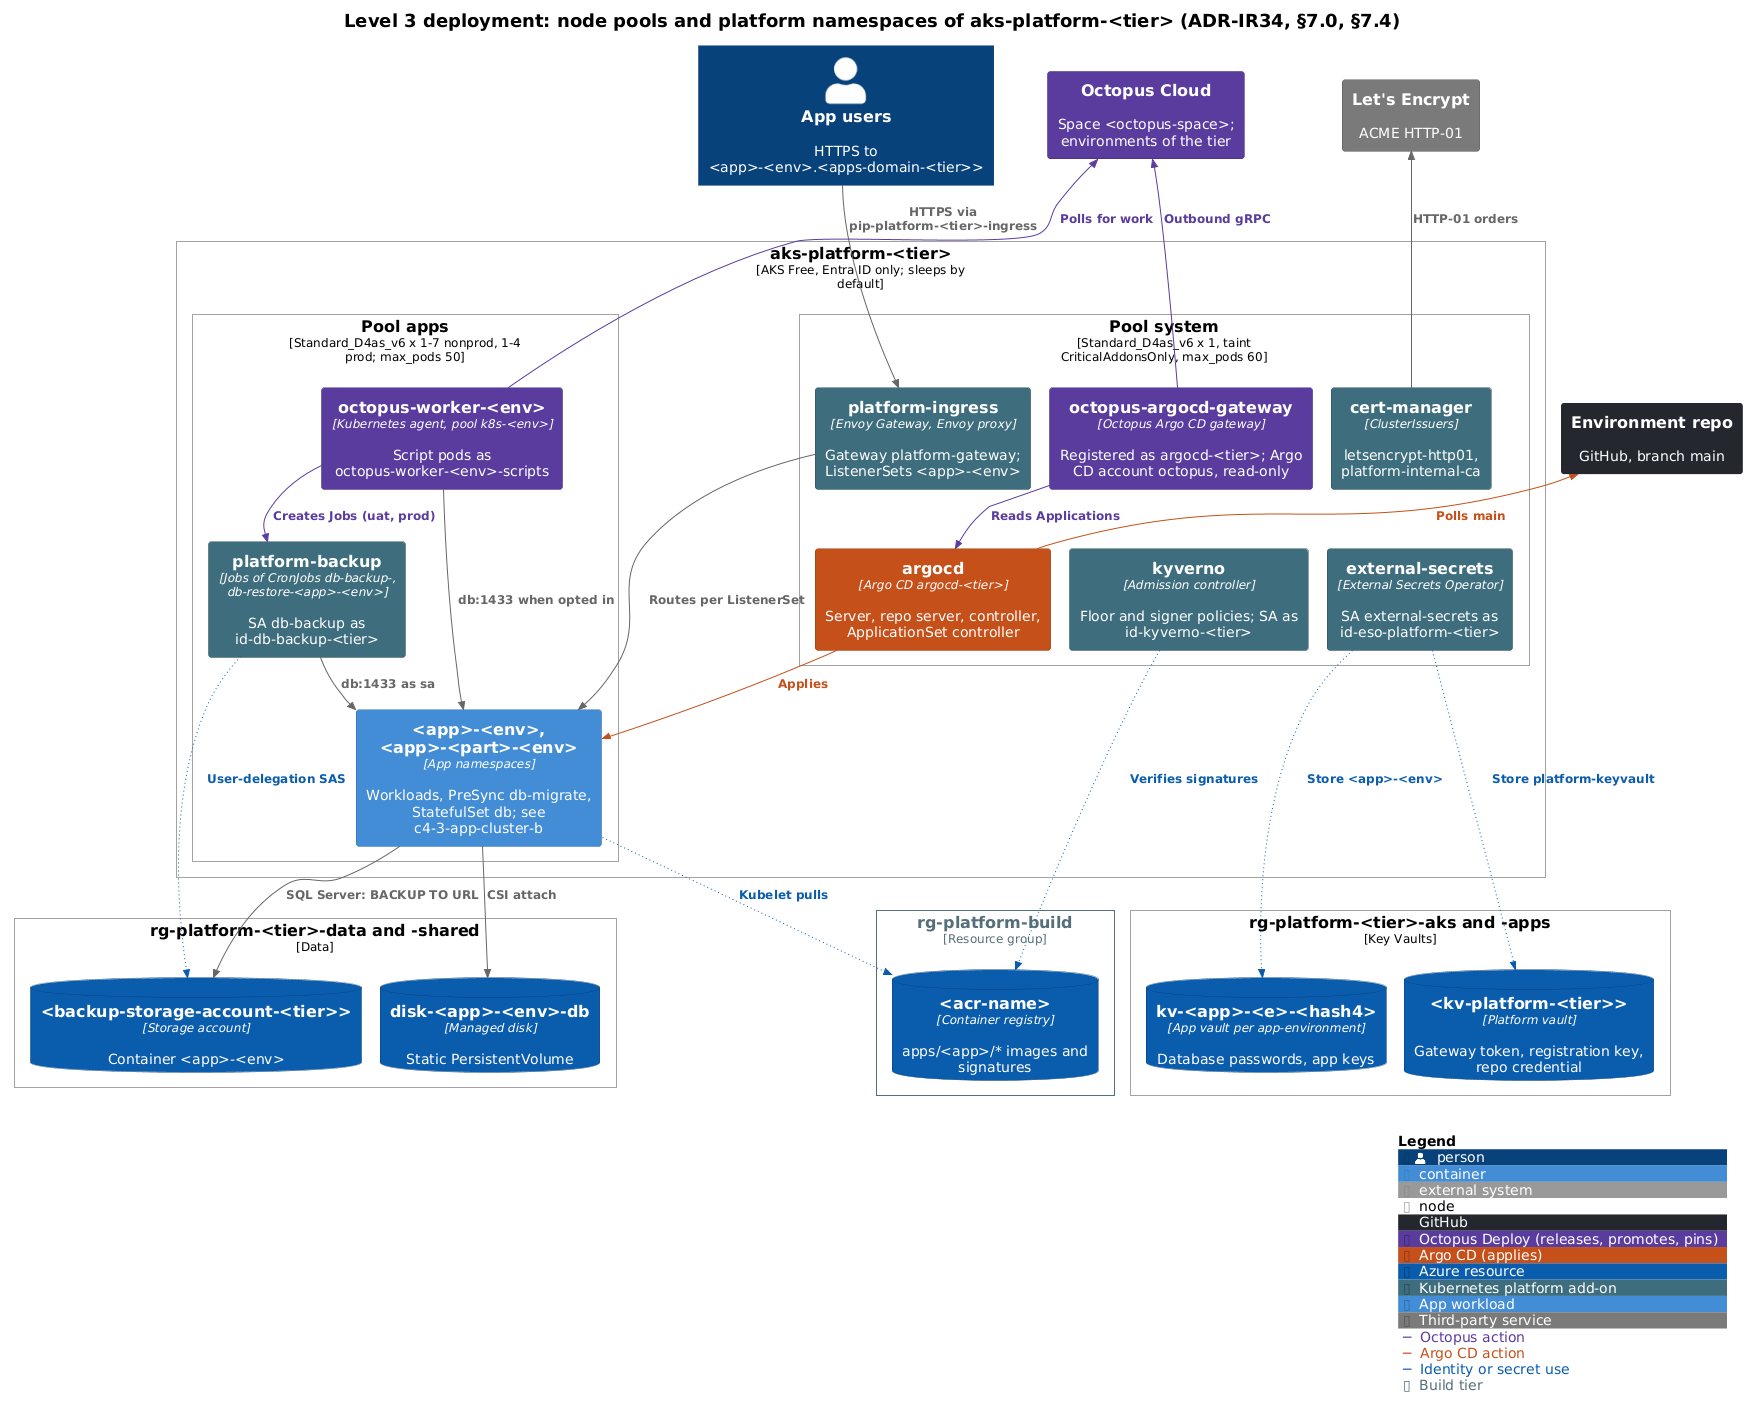
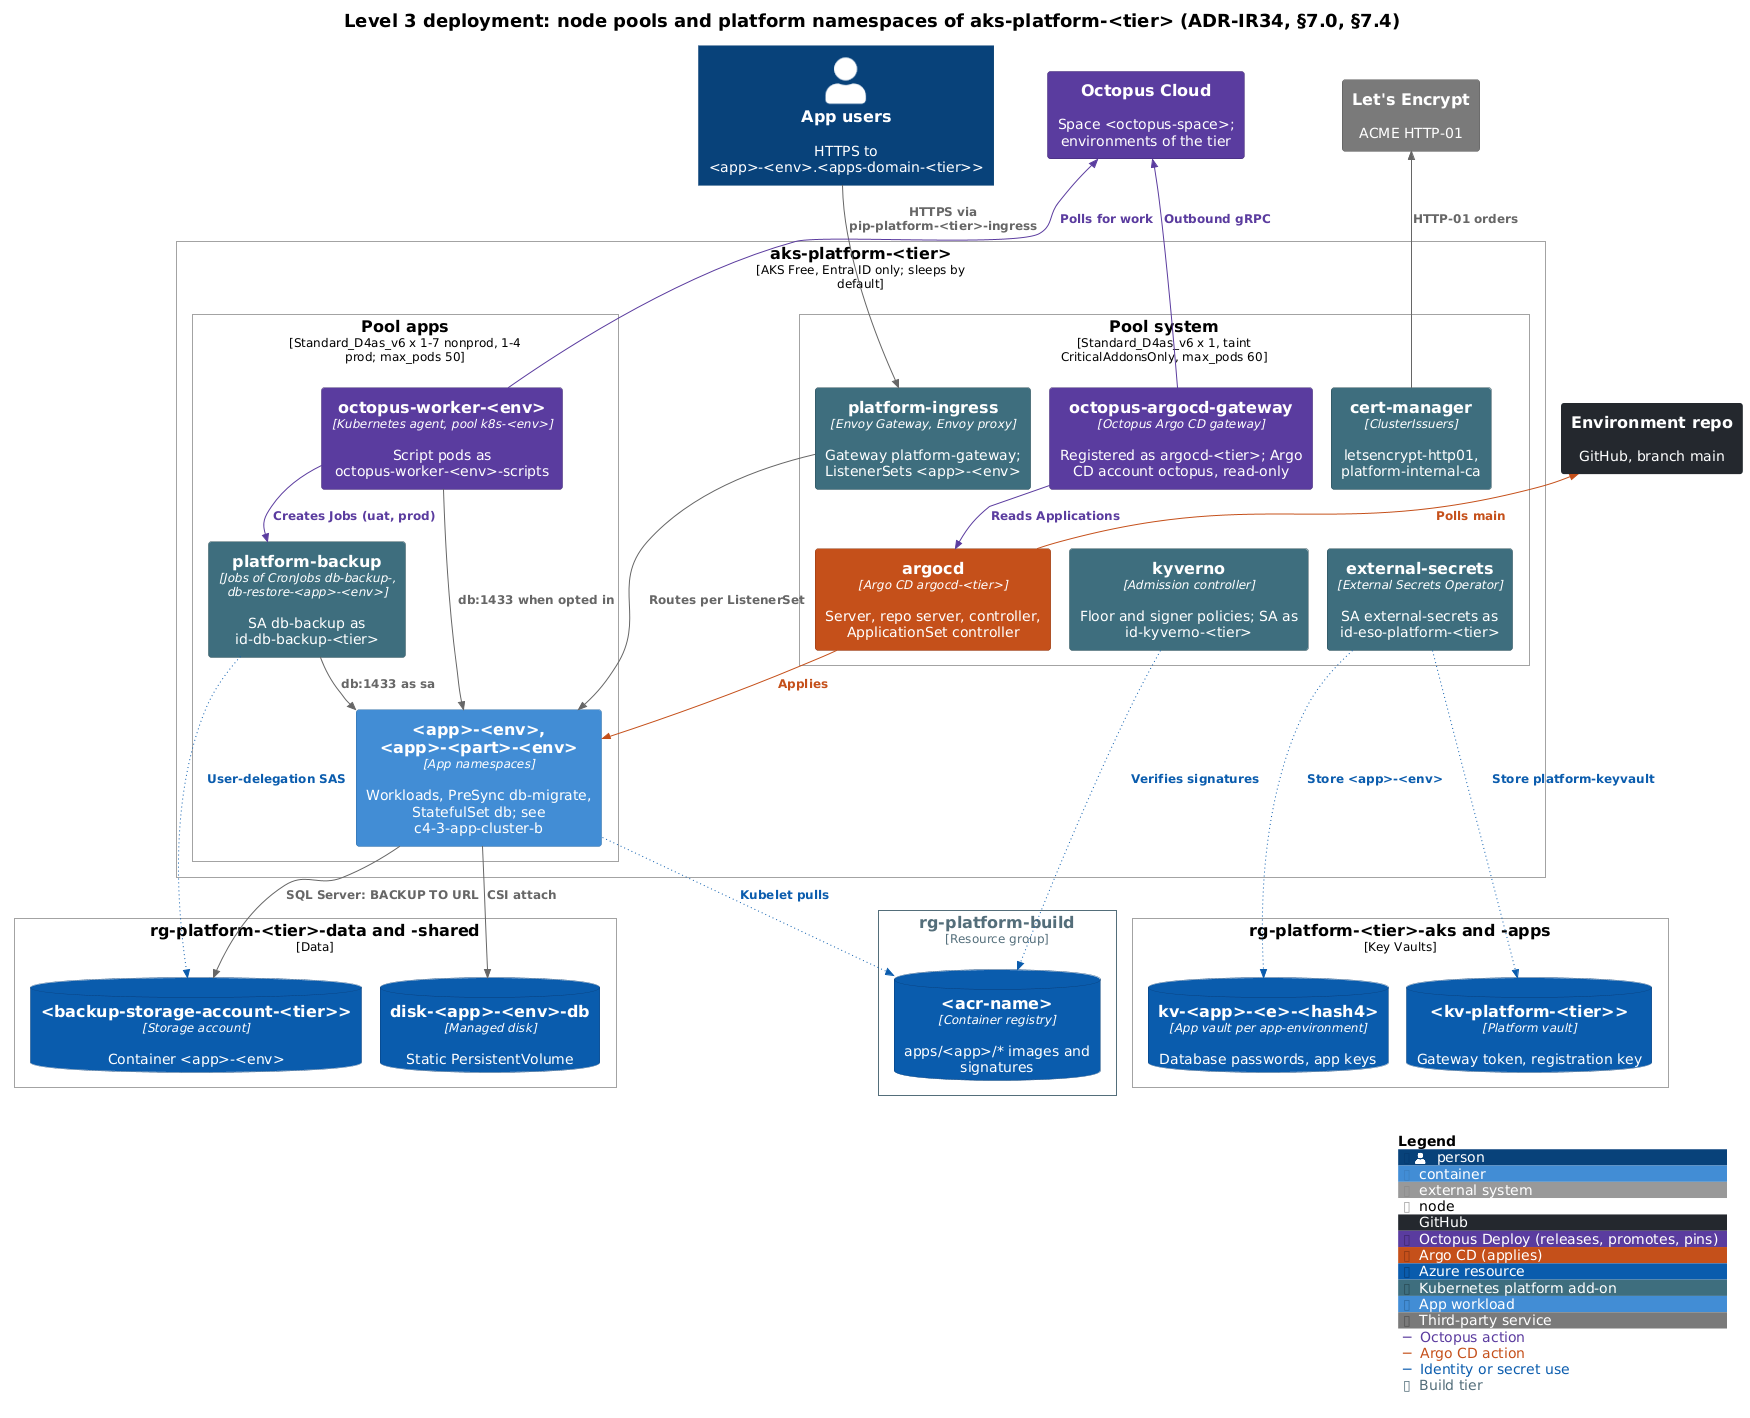
Retire R11: port vault-content wording of five C4 diagrams and the secrets row
Refs #41

Changed region(s): [[0.4937, 0.6206, 0.9566, 0.7757], [0.648, 0.5275, 0.7097, 0.5585], [0.432, 0.6206, 0.4629, 0.6516]]

diff --git a/design/platform-design.md b/design/platform-design.md
@@ -3105,7 +3105,7 @@ Status on 2026-09-24. **Done by the user**: applied by the user. **Done by Claud
 | 3–4 | `argocd/bootstrap/root-app-{nonprod,prod}.yaml` | `argocd-apps` chart values defining `platform-root` (§7.3) |
 | 5, 13 | `argocd/clusters/{nonprod,prod}/namespaces.yaml` | Namespaces from §7.4 with labels (not the worker namespaces) |
 | 6, 14 | `argocd/clusters/{nonprod,prod}/projects.yaml` | AppProjects from §7.3, including the locked `default` |
-| 7, 15 | `argocd/clusters/{nonprod,prod}/platform-secrets.yaml` | `ClusterSecretStore platform-keyvault` and ExternalSecrets for the repo credential, the gateway token and the registration token (§7.8), with `SkipDryRunOnMissingResource=true` |
+| 7, 15 | `argocd/clusters/{nonprod,prod}/platform-secrets.yaml` | `ClusterSecretStore platform-keyvault` and ExternalSecrets for the gateway token and the registration token (§7.8), with `SkipDryRunOnMissingResource=true` |
 | 8–11 | `argocd/clusters/nonprod/addons/{argocd,external-secrets,octopus-argocd-gateway,kyverno}.yaml` | Add-on Applications with pinned chart versions. `kyverno.yaml` holds two Applications (engine; policies from `policies/kyverno/overlays/nonprod`). The gateway registers `tdd`, `uat` as `argocd-nonprod`, with existing-secret references. |
 | 12 | `argocd/clusters/nonprod/apps/workorders-tdd.yaml` | Application per §7.3 |
 | 16–19 | `argocd/clusters/prod/addons/{argocd,external-secrets,octopus-argocd-gateway,kyverno}.yaml` | As 8–11 for prod (`argocd-prod`, environment `prod`, policies `overlays/prod`) |
